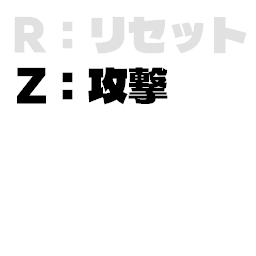
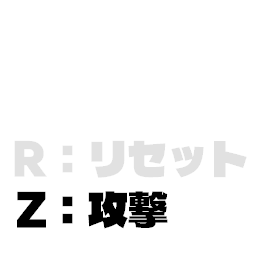
フォントを更に追加

diff --git a/DirectXGame/GameClearScene.cpp b/DirectXGame/GameClearScene.cpp
@@ -7,6 +7,8 @@ using namespace KamataEngine;
 /*-------------------- コンストラクタ&デストラクタ --------------------*/
 GameClearScene::GameClearScene() {}
 GameClearScene::~GameClearScene() {
+	delete creditSprite_;
+	delete returnToTitleSprite_;
 	if (resultBgmStarted_) {
 		Audio::GetInstance()->StopWave(resultVoiceHandle_);
 	}
@@ -23,6 +25,19 @@ void GameClearScene::Initialize() {
 	static const uint32_t resultSound = Audio::GetInstance()->LoadWave("ResultBGM.mp3");
 	resultSoundHandle_ = resultSound;
 
+	// Screen-fixed credits, right aligned with a 24-pixel margin.
+	const uint32_t creditTexture = TextureManager::Load("Cledit.png");
+	creditSprite_ = Sprite::Create(creditTexture, {1256.0f, 500.0f},
+	    {1.0f, 1.0f, 1.0f, 1.0f}, {1.0f, 0.5f});
+	creditSprite_->SetSize({512.0f, 512.0f});
+
+	// Place the text strip below the left-side player.
+	const uint32_t returnTexture = TextureManager::Load("returnToTitle.png");
+	returnToTitleSprite_ = Sprite::Create(returnTexture, {466.0f, 640.0f},
+	    {1.0f, 1.0f, 1.0f, 1.0f}, {0.5f, 0.5f});
+	returnToTitleSprite_->SetTextureRect({0.0f, 224.0f}, {700.0f, 72.0f});
+	returnToTitleSprite_->SetSize({560.0f, 57.6f});
+
 	// カメラ初期化
 	camera_.farZ = 550.0f;
 	camera_.Initialize();
@@ -37,13 +52,13 @@ void GameClearScene::Initialize() {
 	// ゲームクリア用フォントのモデル
 	modelGameClear_ = Model::CreateFromOBJ("clearFont", true); // ゲームクリアフォントの3Dモデルを生成
 	worldTransformGameClear_.Initialize();                     // ゲームクリアのワールドトランスフォームの初期化
-	worldTransformGameClear_.translation_ = {0.0f, 5.0f, 0.0f};
+	worldTransformGameClear_.translation_ = {0.0f, 8.0f, 0.0f};
 	worldTransformGameClear_.scale_ = {2.0f, 2.0f, 2.0f};
 
 	// プレイヤーのモデル
 	modelPlayer_ = Model::CreateFromOBJ("player", true); // プレイヤーの3Dモデルを生成
 	worldTransformPlayer_.Initialize();                  // プレイヤーのワールドトランスフォームの初期化
-	worldTransformPlayer_.translation_ = {0.0f, -10.0f, 0.0f};
+	worldTransformPlayer_.translation_ = {-10.0f, -10.0f, 0.0f};
 	worldTransformPlayer_.scale_ = {6.0f, 6.0f, 6.0f};
 
 	// フェード用
@@ -111,8 +126,13 @@ void GameClearScene::Draw() {
 	modelGameClear_->Draw(worldTransformGameClear_, camera_);
 	modelPlayer_->Draw(worldTransformPlayer_, camera_);
 
-	// フェードを描画
-	fade_->Draw();
-
 	Model::PostDraw();
+
+	Sprite::PreDraw();
+	creditSprite_->Draw();
+	returnToTitleSprite_->Draw();
+	Sprite::PostDraw();
+
+	// Fade covers the credits as well.
+	fade_->Draw();
 }

diff --git a/DirectXGame/TitleScene.cpp b/DirectXGame/TitleScene.cpp
@@ -7,6 +7,7 @@ using namespace KamataEngine;
 /*-------------------- コンストラクタ&デストラクタ --------------------*/
 TitleScene::TitleScene() {}
 TitleScene::~TitleScene() {
+	delete startGameSprite_;
 	if (bgmStarted_) {
 		Audio::GetInstance()->StopWave(bgmVoiceHandle_);
 	}
@@ -21,6 +22,13 @@ TitleScene::~TitleScene() {
 void TitleScene::Initialize() {
 	static const uint32_t selectSound = Audio::GetInstance()->LoadWave("select.mp3");
 	selectSoundHandle_ = selectSound;
+
+	// Display the central text strip below the player.
+	const uint32_t startTexture = TextureManager::Load("startGame.png");
+	startGameSprite_ = Sprite::Create(startTexture, {640.0f, 640.0f},
+	    {1.0f, 1.0f, 1.0f, 1.0f}, {0.5f, 0.5f});
+	startGameSprite_->SetTextureRect({0.0f, 224.0f}, {512.0f, 64.0f});
+	startGameSprite_->SetSize({512.0f, 64.0f});
 
 	// カメラ初期化
 	camera_.farZ = 550.0f;
@@ -116,8 +124,12 @@ void TitleScene::Draw() {
 	modelTitle_->Draw(worldTransformTitle_, camera_);
 	modelPlayer_->Draw(worldTransformPlayer_, camera_);
 
-	// フェードを描画
-	fade_->Draw();
-
 	Model::PostDraw();
+
+	Sprite::PreDraw();
+	startGameSprite_->Draw();
+	Sprite::PostDraw();
+
+	// Fade covers the start prompt too.
+	fade_->Draw();
 }

diff --git a/DirectXGame/main.cpp b/DirectXGame/main.cpp
@@ -43,7 +43,7 @@ void DrawScene();
 int WINAPI WinMain(_In_ HINSTANCE, _In_opt_ HINSTANCE, _In_ LPSTR, _In_ int) {
 
 	// エンジンの初期化
-	Initialize(L"LE2B_22_ババ_マサオミ_AL4_1回目");
+	Initialize(L"LE2B_22_ババ_マサオミ_跳ねろ突撃マン");
 
 	// DirectXCommonインスタンスを取得(画面描画に使用)
 	DirectXCommon* dxCoommon = DirectXCommon::GetInstance();

diff --git a/DirectXGame/GameClearScene.h b/DirectXGame/GameClearScene.h
@@ -27,6 +27,8 @@ public:
 	bool GetIsFinished() const { return finished_; }
 
 private:
+	KamataEngine::Sprite* creditSprite_ = nullptr;
+	KamataEngine::Sprite* returnToTitleSprite_ = nullptr;
 	uint32_t resultSoundHandle_ = 0;
 	uint32_t resultVoiceHandle_ = 0;
 	bool resultBgmStarted_ = false;

diff --git a/DirectXGame/TitleScene.h b/DirectXGame/TitleScene.h
@@ -27,6 +27,7 @@ public:
 	bool GetIsFinished() const { return finished_; }
 
 private:
+	KamataEngine::Sprite* startGameSprite_ = nullptr;
 	uint32_t bgmVoiceHandle_ = 0;
 	bool bgmStarted_ = false;
 	uint32_t selectSoundHandle_ = 0;

diff --git a/DirectXGame/HitEffect.cpp b/DirectXGame/HitEffect.cpp
@@ -1,6 +1,7 @@
 #include "HitEffect.h"
 #include "Math.h"
 #include <random>
+#include <cassert>
 
 // KamataEngine::を毎回入力しなくてもいい様にする
 using namespace KamataEngine;
